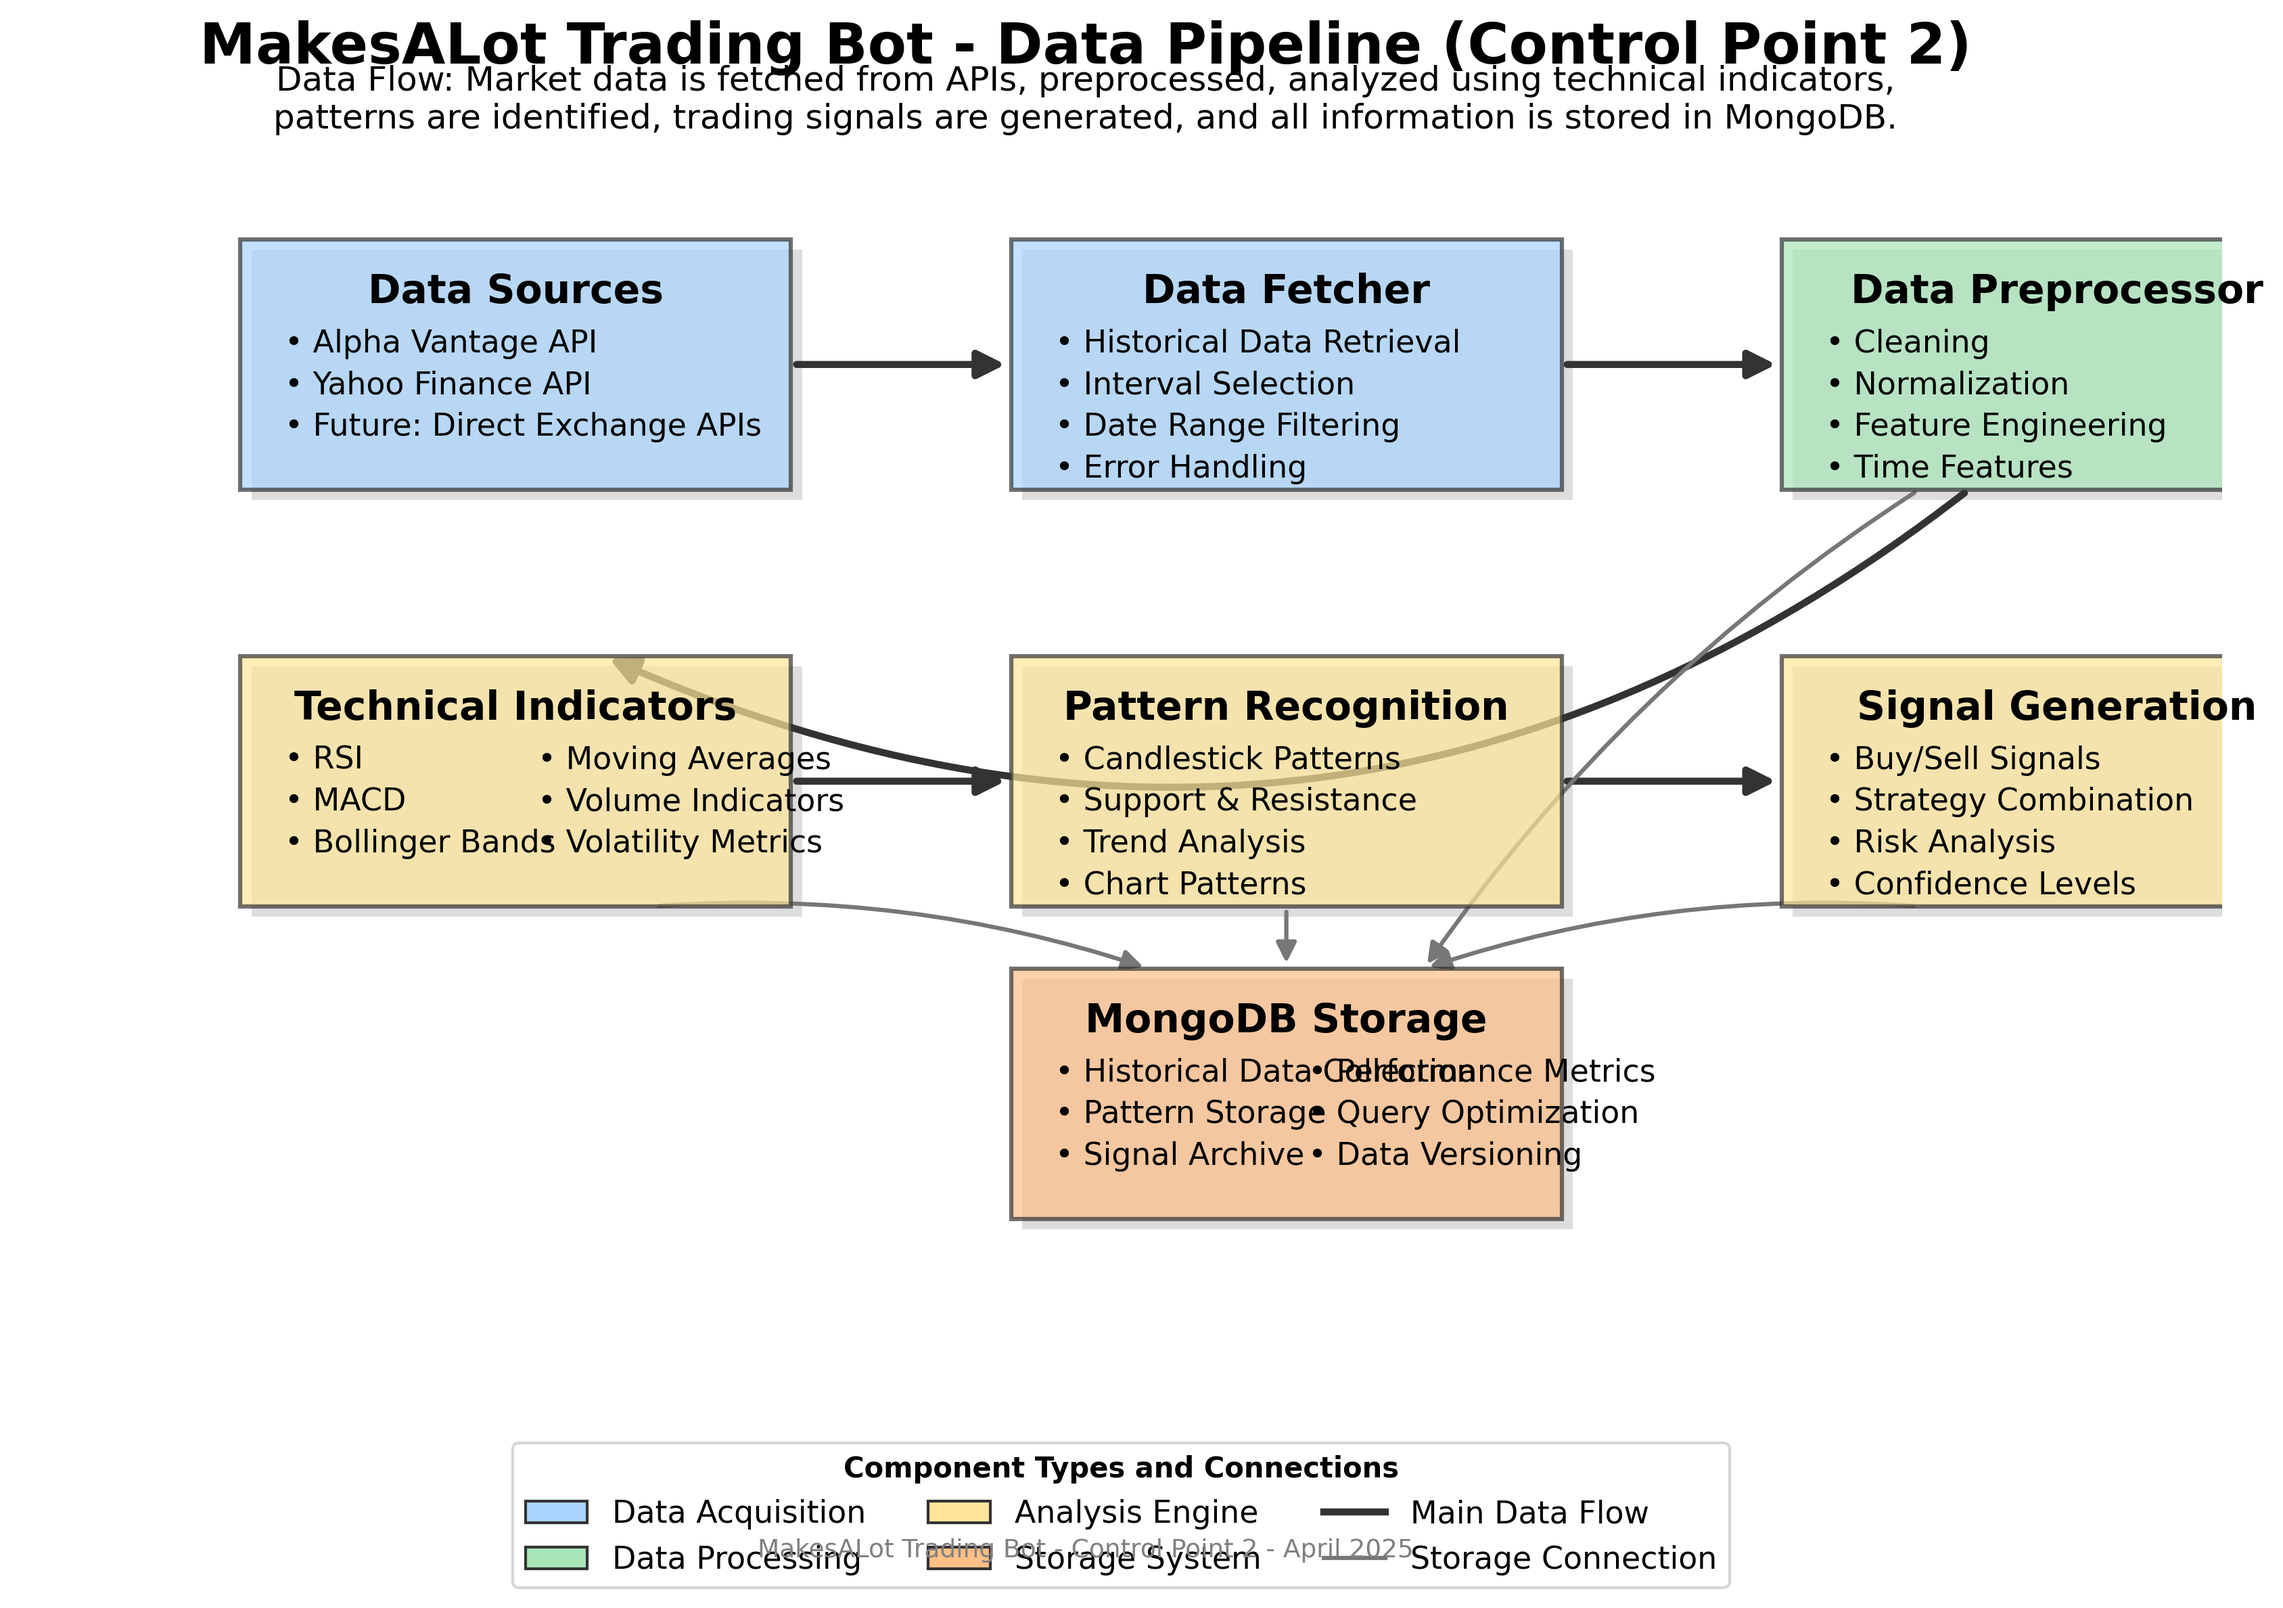
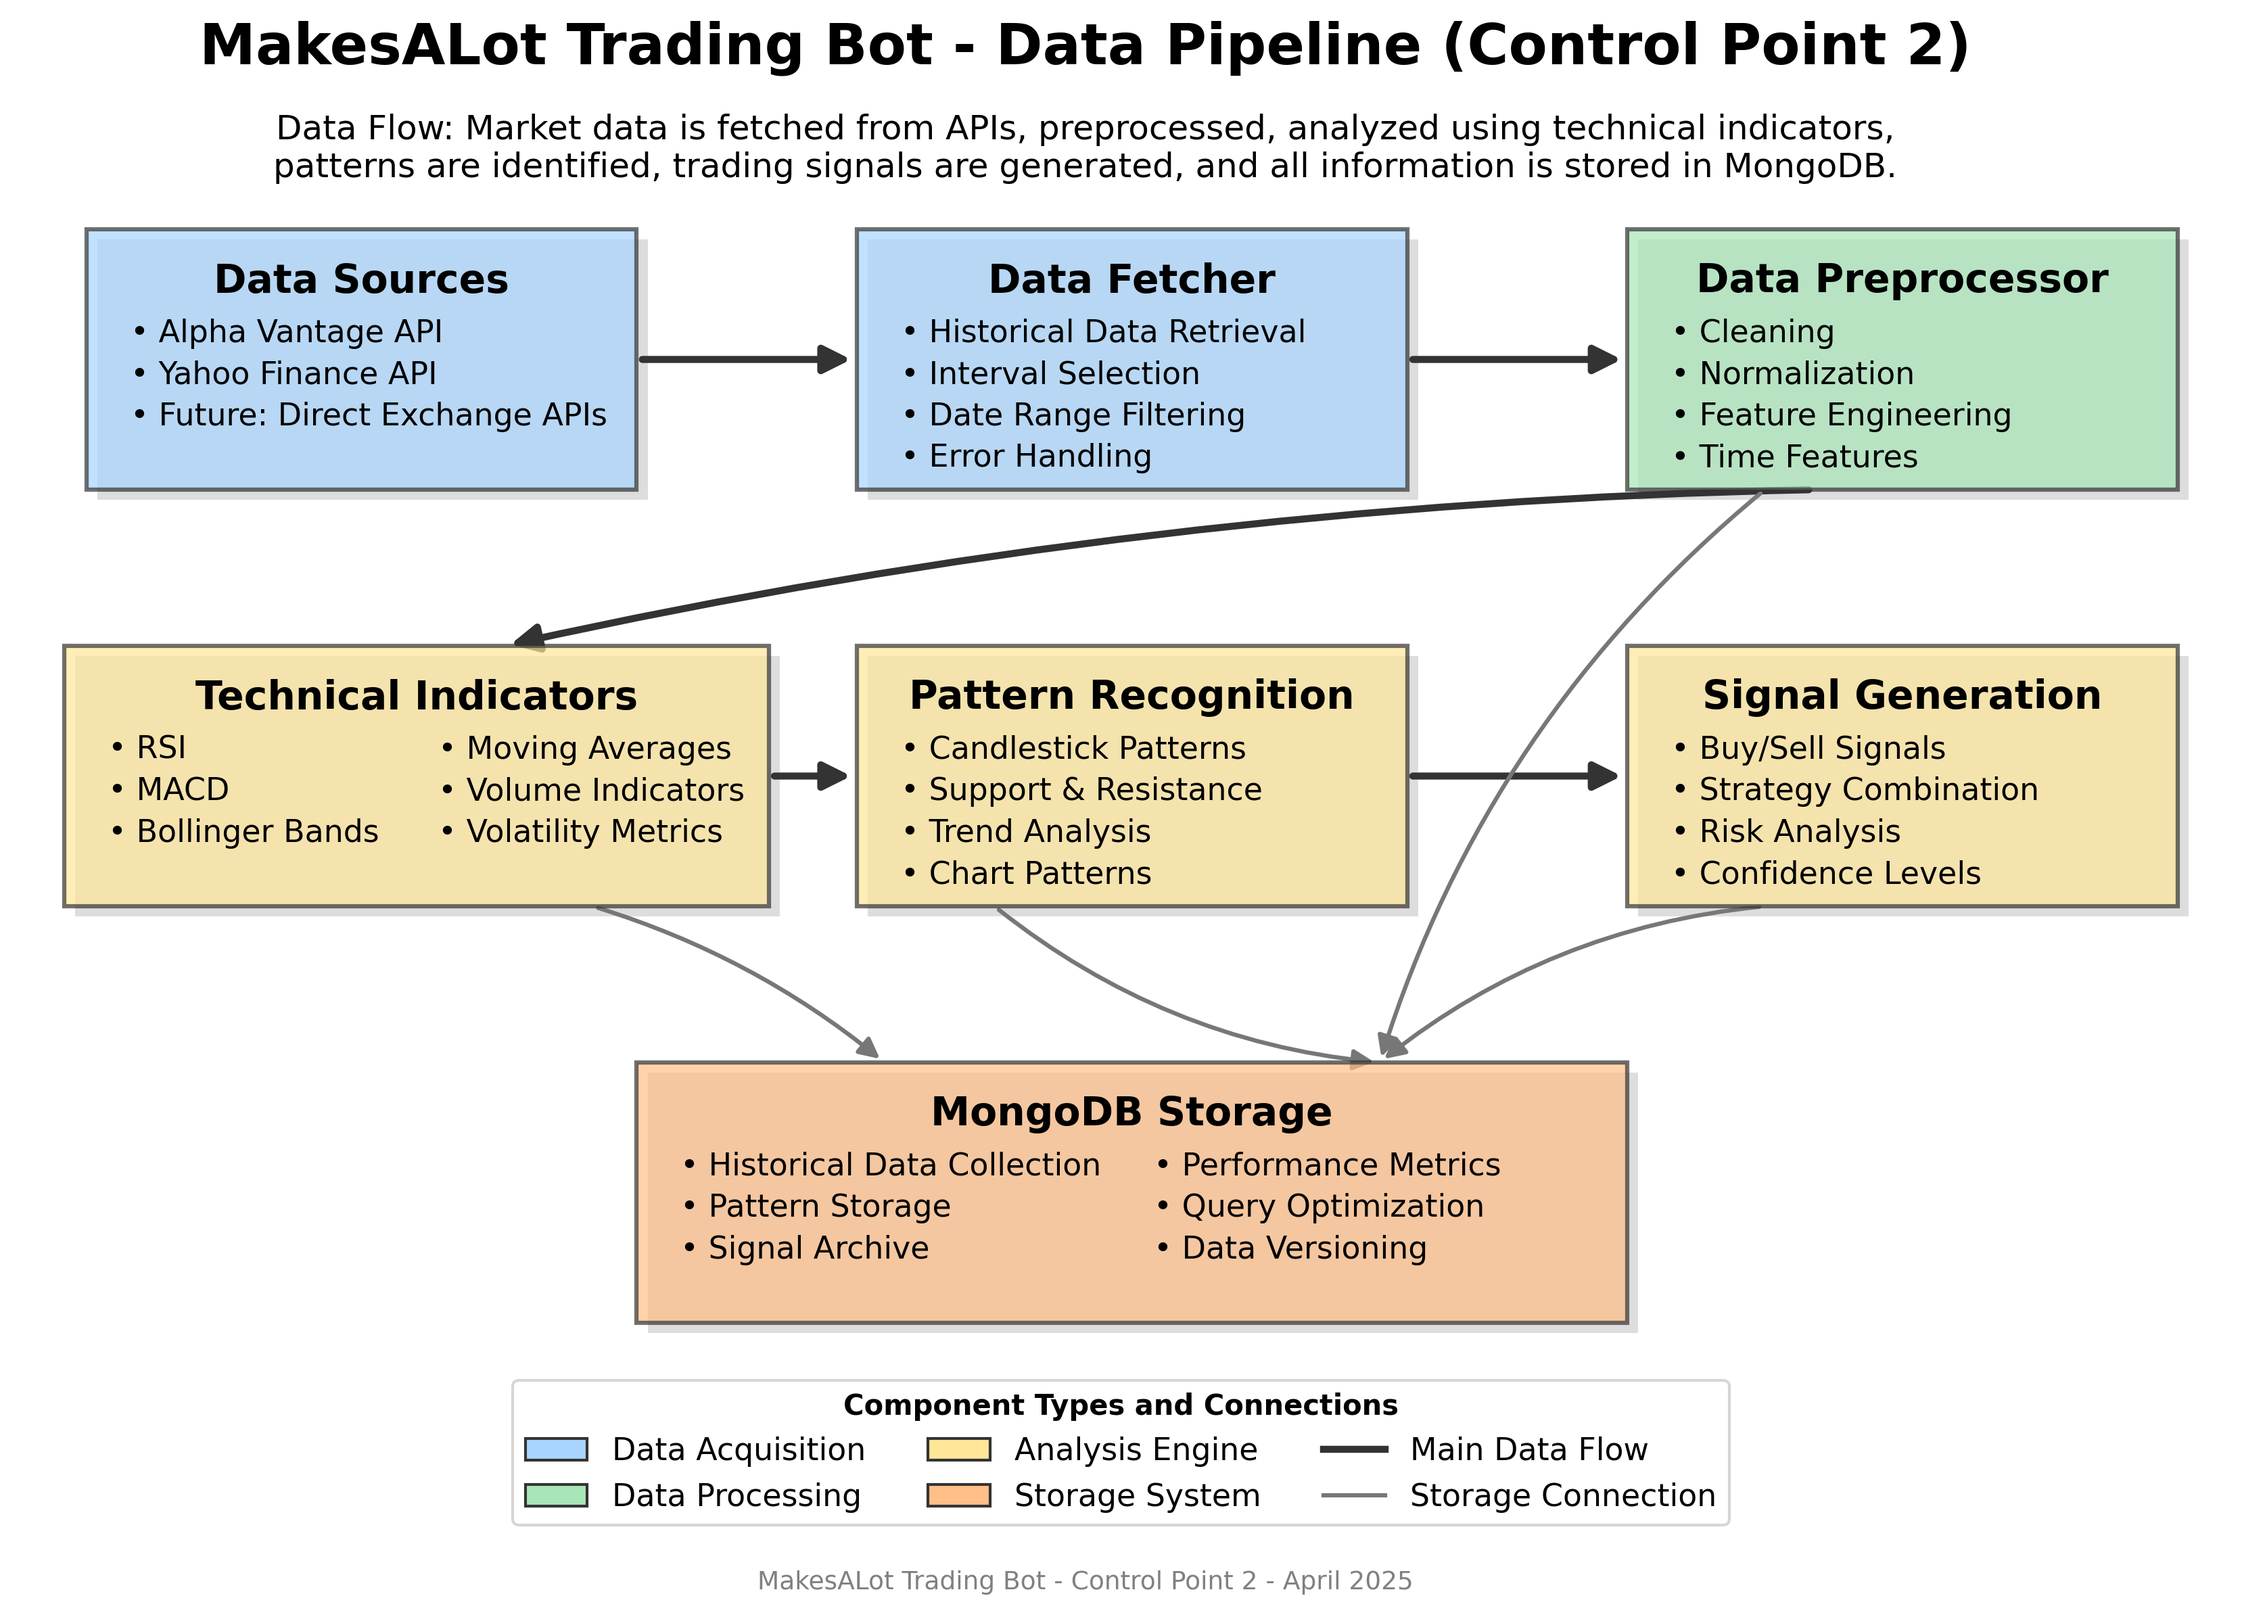
alteracoes pipeline

Changed region(s): [[0.0, 0.0, 0.9943, 0.9962]]

diff --git a/testing/control_point_2/visualize_pipeline.py b/testing/control_point_2/visualize_pipeline.py
@@ -36,14 +36,14 @@ def create_pipeline_visualization():
     # Define component positions and sizes
     components = [
         # Row 1 - Data acquisition and preprocessing
-        {'name': 'Data Sources', 'x': 100, 'y': 450, 'width': 250, 'height': 120, 'color': colors['data'],
+        {'name': 'Data Sources', 'x': 30, 'y': 450, 'width': 250, 'height': 125, 'color': colors['data'],
          'features': [
              '• Alpha Vantage API',
              '• Yahoo Finance API',
              '• Future: Direct Exchange APIs'
          ]},
         
-        {'name': 'Data Fetcher', 'x': 450, 'y': 450, 'width': 250, 'height': 120, 'color': colors['data'],
+        {'name': 'Data Fetcher', 'x': 380, 'y': 450, 'width': 250, 'height': 125, 'color': colors['data'],
          'features': [
              '• Historical Data Retrieval',
              '• Interval Selection',
@@ -51,7 +51,7 @@ def create_pipeline_visualization():
              '• Error Handling'
          ]},
         
-        {'name': 'Data Preprocessor', 'x': 800, 'y': 450, 'width': 250, 'height': 120, 'color': colors['process'],
+        {'name': 'Data Preprocessor', 'x': 730, 'y': 450, 'width': 250, 'height': 125, 'color': colors['process'],
          'features': [
              '• Cleaning',
              '• Normalization',
@@ -60,7 +60,7 @@ def create_pipeline_visualization():
          ]},
         
         # Row 2 - Analysis components
-        {'name': 'Technical Indicators', 'x': 100, 'y': 250, 'width': 250, 'height': 120, 'color': colors['analysis'],
+        {'name': 'Technical Indicators', 'x': 20, 'y': 250, 'width': 320, 'height': 125, 'color': colors['analysis'],
          'features_col1': [
              '• RSI',
              '• MACD',
@@ -72,7 +72,7 @@ def create_pipeline_visualization():
              '• Volatility Metrics'
          ]},
         
-        {'name': 'Pattern Recognition', 'x': 450, 'y': 250, 'width': 250, 'height': 120, 'color': colors['analysis'],
+        {'name': 'Pattern Recognition', 'x': 380, 'y': 250, 'width': 250, 'height': 125, 'color': colors['analysis'],
          'features': [
              '• Candlestick Patterns',
              '• Support & Resistance',
@@ -80,7 +80,7 @@ def create_pipeline_visualization():
              '• Chart Patterns'
          ]},
         
-        {'name': 'Signal Generation', 'x': 800, 'y': 250, 'width': 250, 'height': 120, 'color': colors['analysis'],
+        {'name': 'Signal Generation', 'x': 730, 'y': 250, 'width': 250, 'height': 125, 'color': colors['analysis'],
          'features': [
              '• Buy/Sell Signals',
              '• Strategy Combination',
@@ -89,7 +89,7 @@ def create_pipeline_visualization():
          ]},
         
         # Row 3 - Storage component (wider)
-        {'name': 'MongoDB Storage', 'x': 450, 'y': 100, 'width': 250, 'height': 120, 'color': colors['storage'],
+        {'name': 'MongoDB Storage', 'x': 280, 'y': 50, 'width': 450, 'height': 125, 'color': colors['storage'],
          'features_col1': [
              '• Historical Data Collection',
              '• Pattern Storage',
@@ -130,7 +130,7 @@ def create_pipeline_visualization():
     plt.figtext(0.5, 0.95, "MakesALot Trading Bot - Data Pipeline (Control Point 2)", 
               fontsize=20, fontweight='bold', ha='center')
     
-    plt.figtext(0.5, 0.91, "Data Flow: Market data is fetched from APIs, preprocessed, analyzed using technical indicators,\n"
+    plt.figtext(0.5, 0.88, "Data Flow: Market data is fetched from APIs, preprocessed, analyzed using technical indicators,\n"
                 "patterns are identified, trading signals are generated, and all information is stored in MongoDB.", 
                 fontsize=12, ha='center')
     
@@ -138,7 +138,7 @@ def create_pipeline_visualization():
     add_legend(ax, colors)
     
     # Add watermark
-    plt.figtext(0.5, 0.03, "MakesALot Trading Bot - Control Point 2 - April 2025", 
+    plt.figtext(0.5, 0.01, "MakesALot Trading Bot - Control Point 2 - April 2025", 
                 ha='center', fontsize=9, color='gray')
     
     # Save the visualization
@@ -232,7 +232,7 @@ def draw_connection(ax, connection, components, colors):
             start_y = source['y']
             end_x = target['x'] + target['width']/2 + 40
             end_y = target['y'] + target['height']
-            curve = -0.3  # Negative curve
+            curve = 0.05  
         
         # For storage connections
         elif target['name'] == 'MongoDB Storage':
@@ -248,7 +248,7 @@ def draw_connection(ax, connection, components, colors):
                 start_y = source['y']
                 end_x = target['x'] + 3*target['width']/4
                 end_y = target['y'] + target['height']
-                curve = 0.1
+                curve = 0.15
             else:  # Center aligned components
                 start_x = source['x'] + source['width']/2
                 start_y = source['y']
@@ -300,7 +300,7 @@ def add_legend(ax, colors):
     # Create legend box
     legend = ax.legend(handles=legend_elements, 
                loc='upper center',
-               bbox_to_anchor=(0.5, 0),
+               bbox_to_anchor=(0.5, 0.05),
                title='Component Types and Connections',
                ncol=3,
                frameon=True, 
